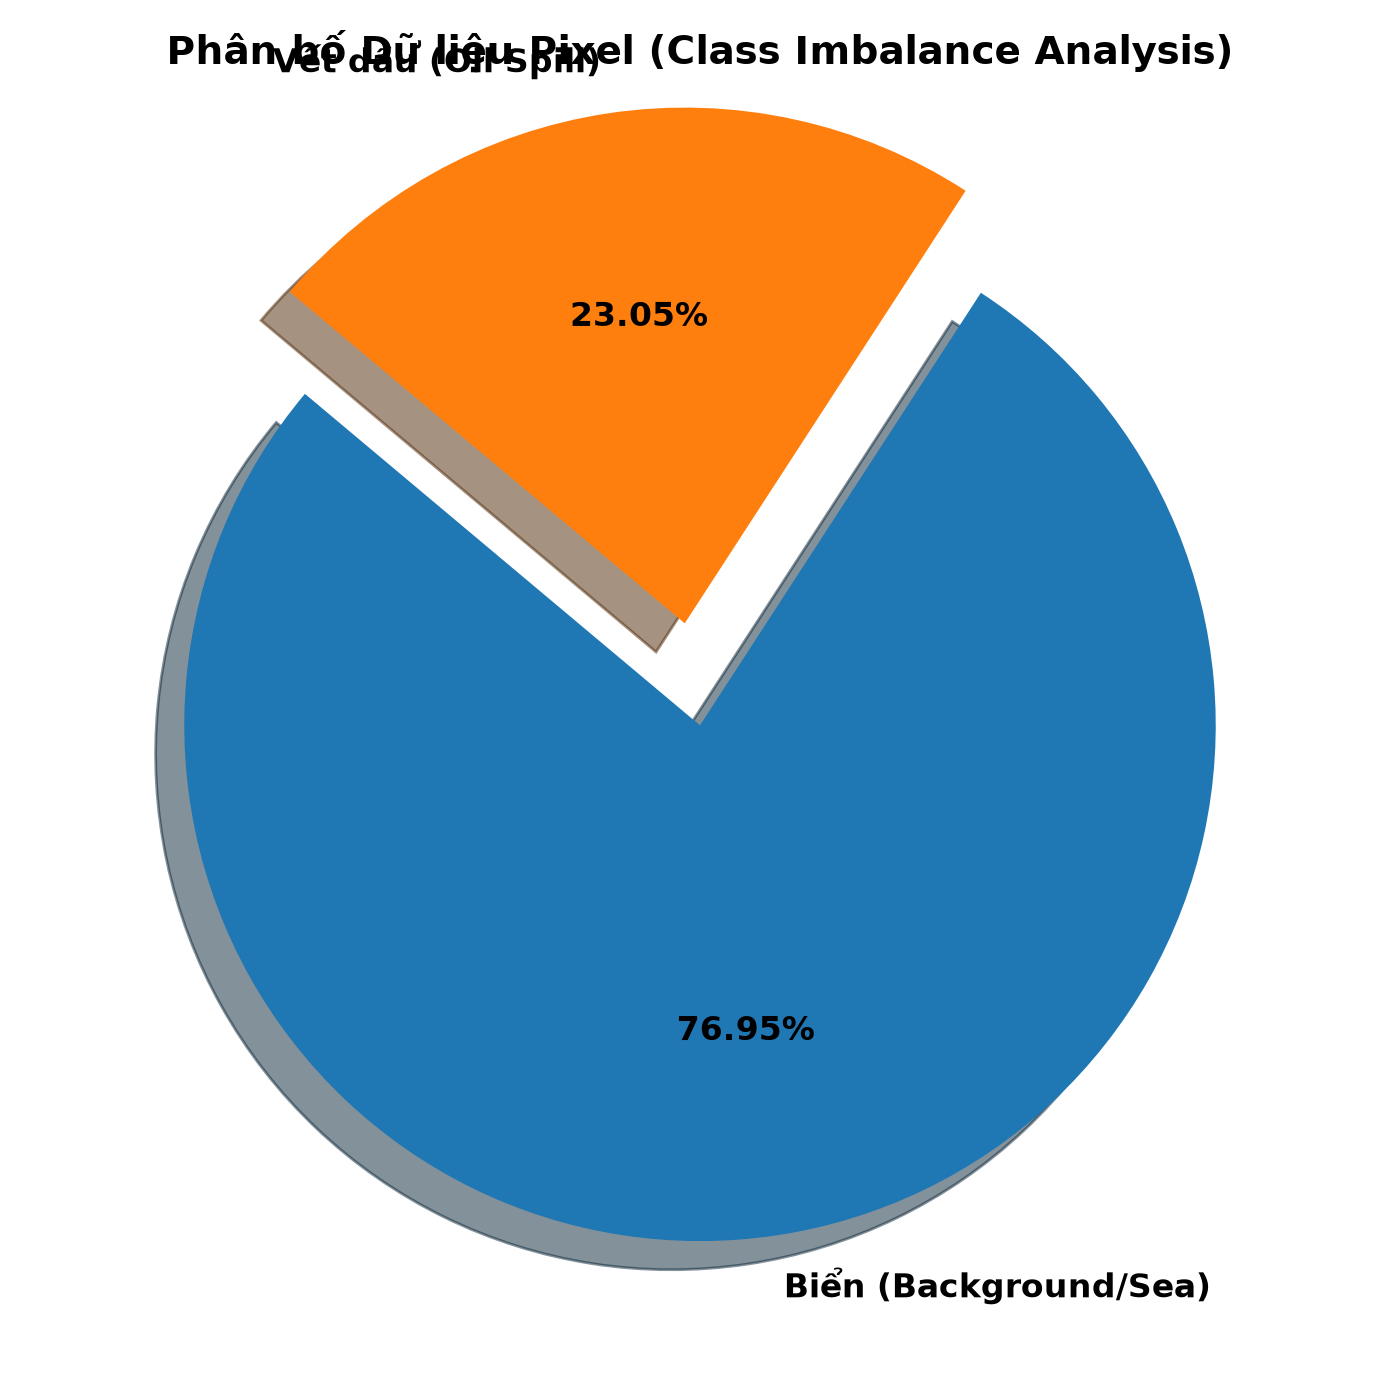
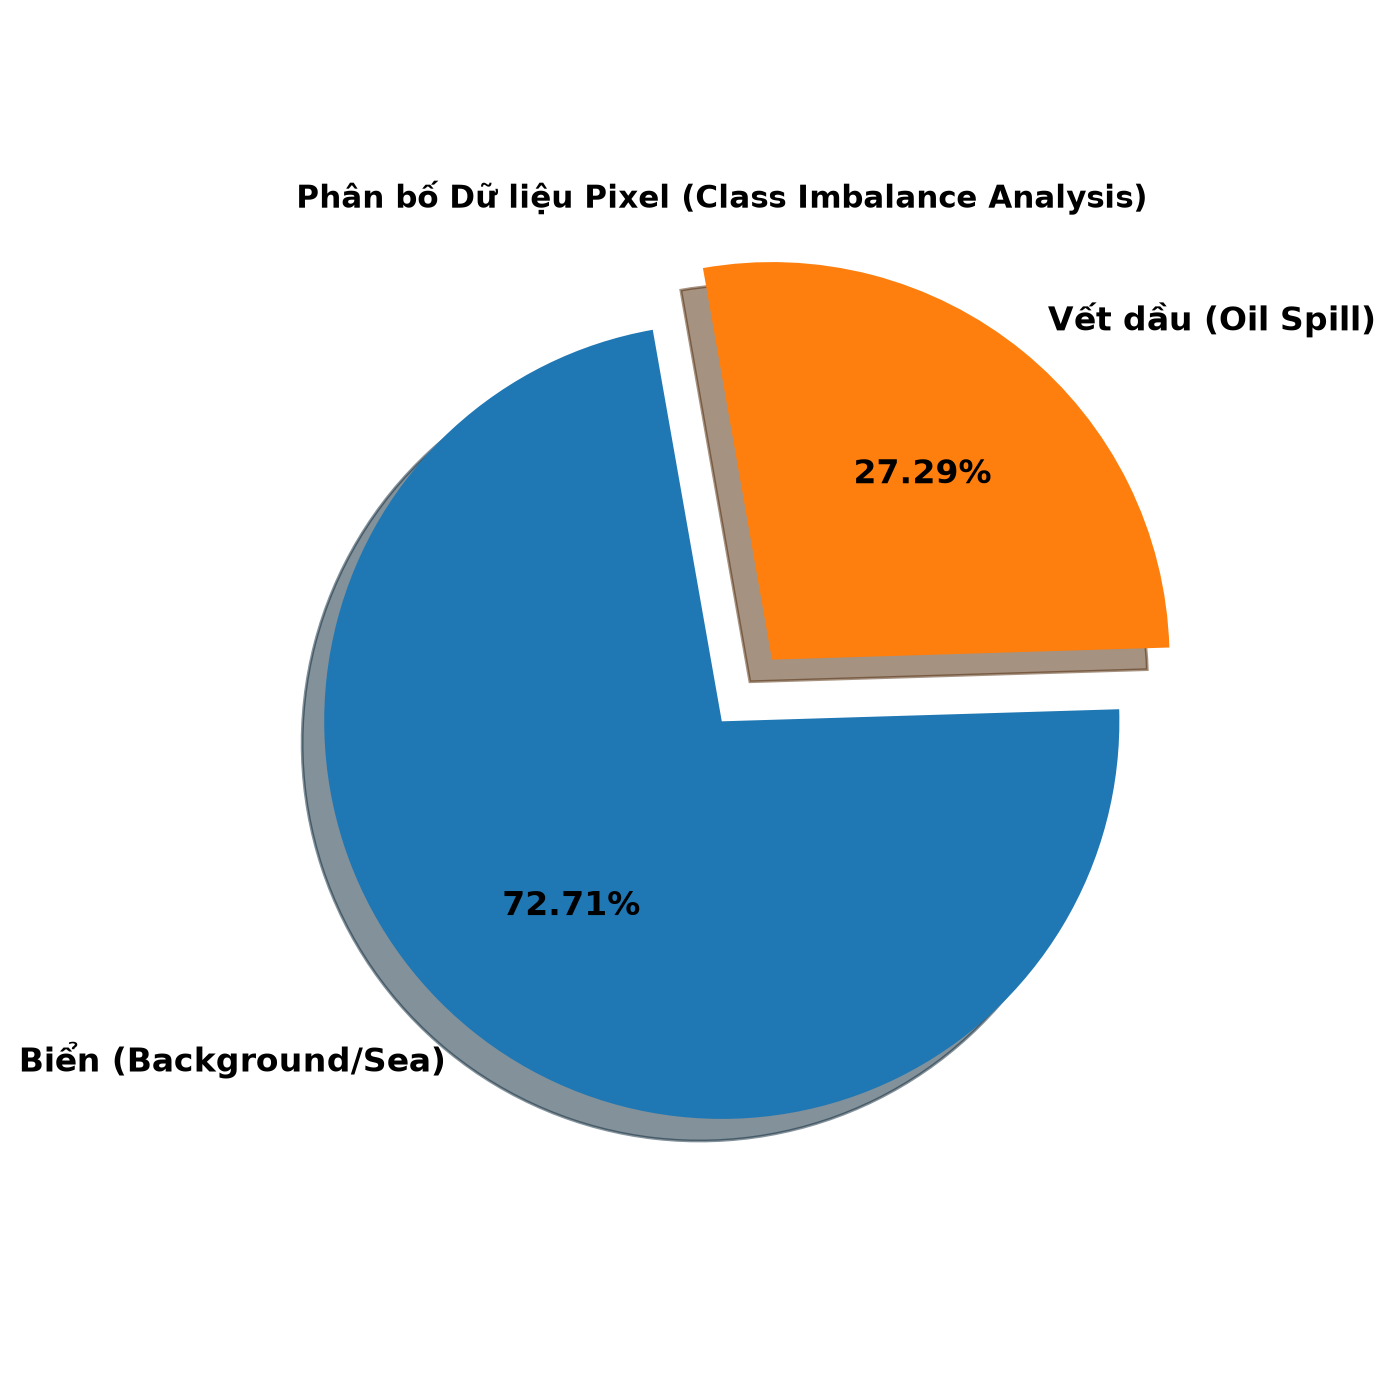
new image

diff --git a/notebooks/Quang/visualize.py b/notebooks/Quang/visualize.py
@@ -158,8 +158,8 @@ def analyze_class_imbalance(sample_size=100):
     explode = (0, 0.2)  # Cắt miếng bánh "Vết dầu" ra cho nổi bật
 
     ax.pie(sizes, explode=explode, labels=labels, colors=colors, autopct='%1.2f%%',
-           shadow=True, startangle=140, textprops={'fontsize': 12, 'fontweight': 'bold'})
-    ax.set_title('Phân bố Dữ liệu Pixel (Class Imbalance Analysis)', fontsize=14, fontweight='bold')
+           shadow=True, startangle=100, textprops={'fontsize': 12, 'fontweight': 'bold'})
+    ax.set_title('Phân bố Dữ liệu Pixel (Class Imbalance Analysis)', fontsize=11, fontweight='bold')
 
     save_path = config.PREDICTION_DIR / '3_class_imbalance_piechart.png'
     plt.tight_layout()